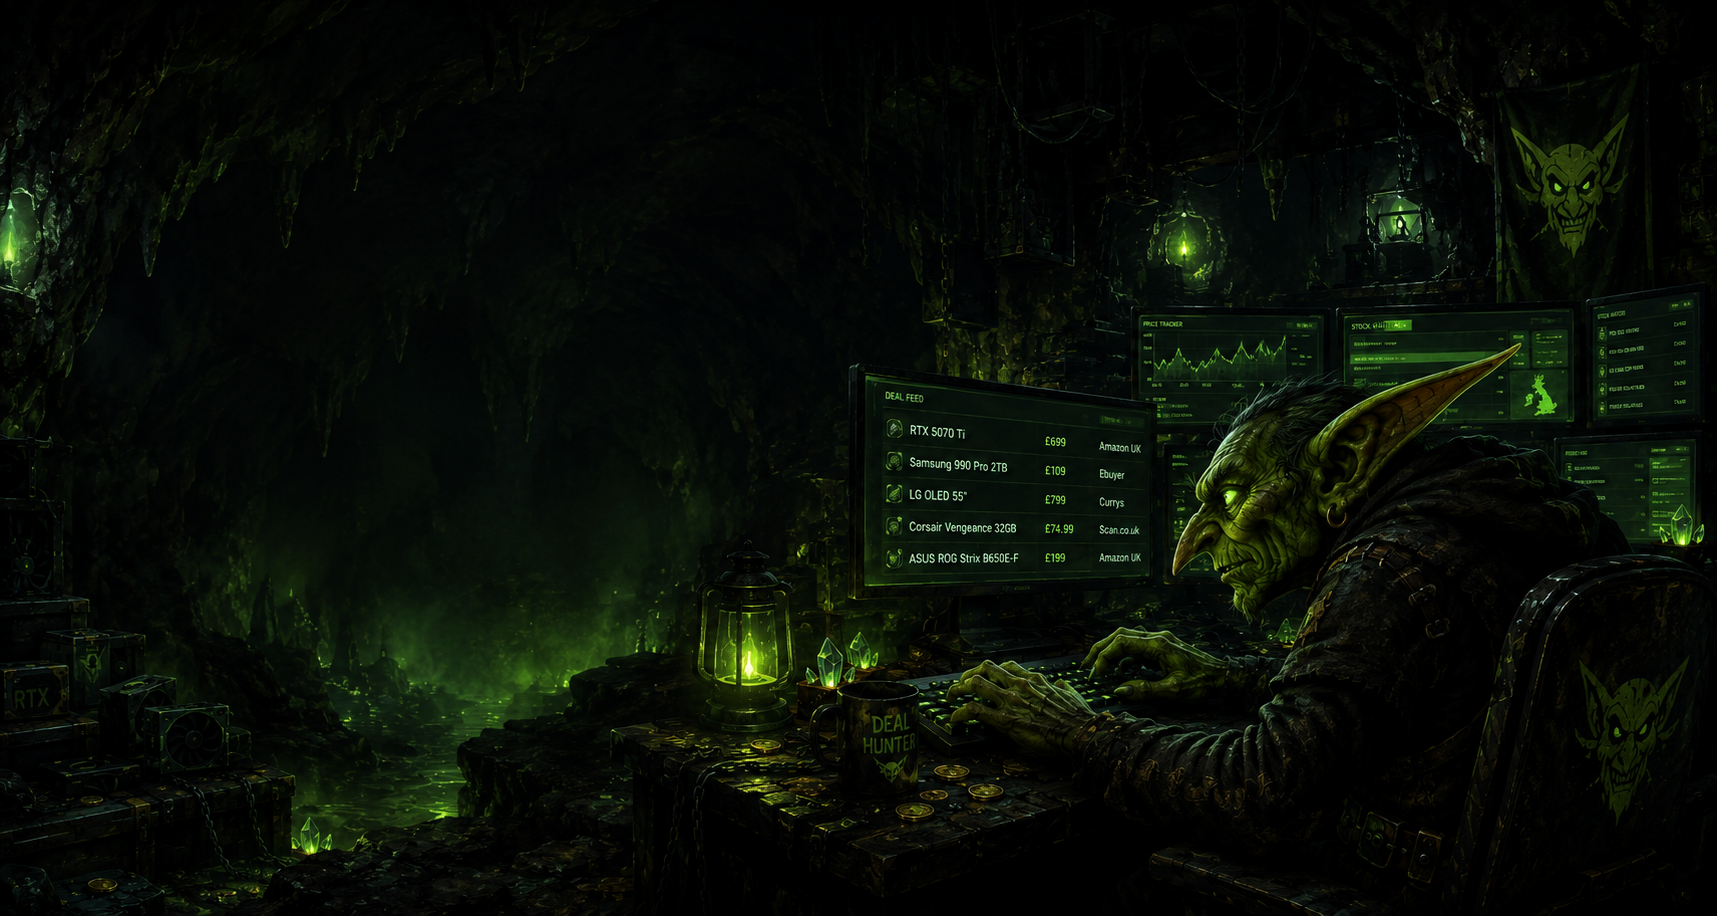
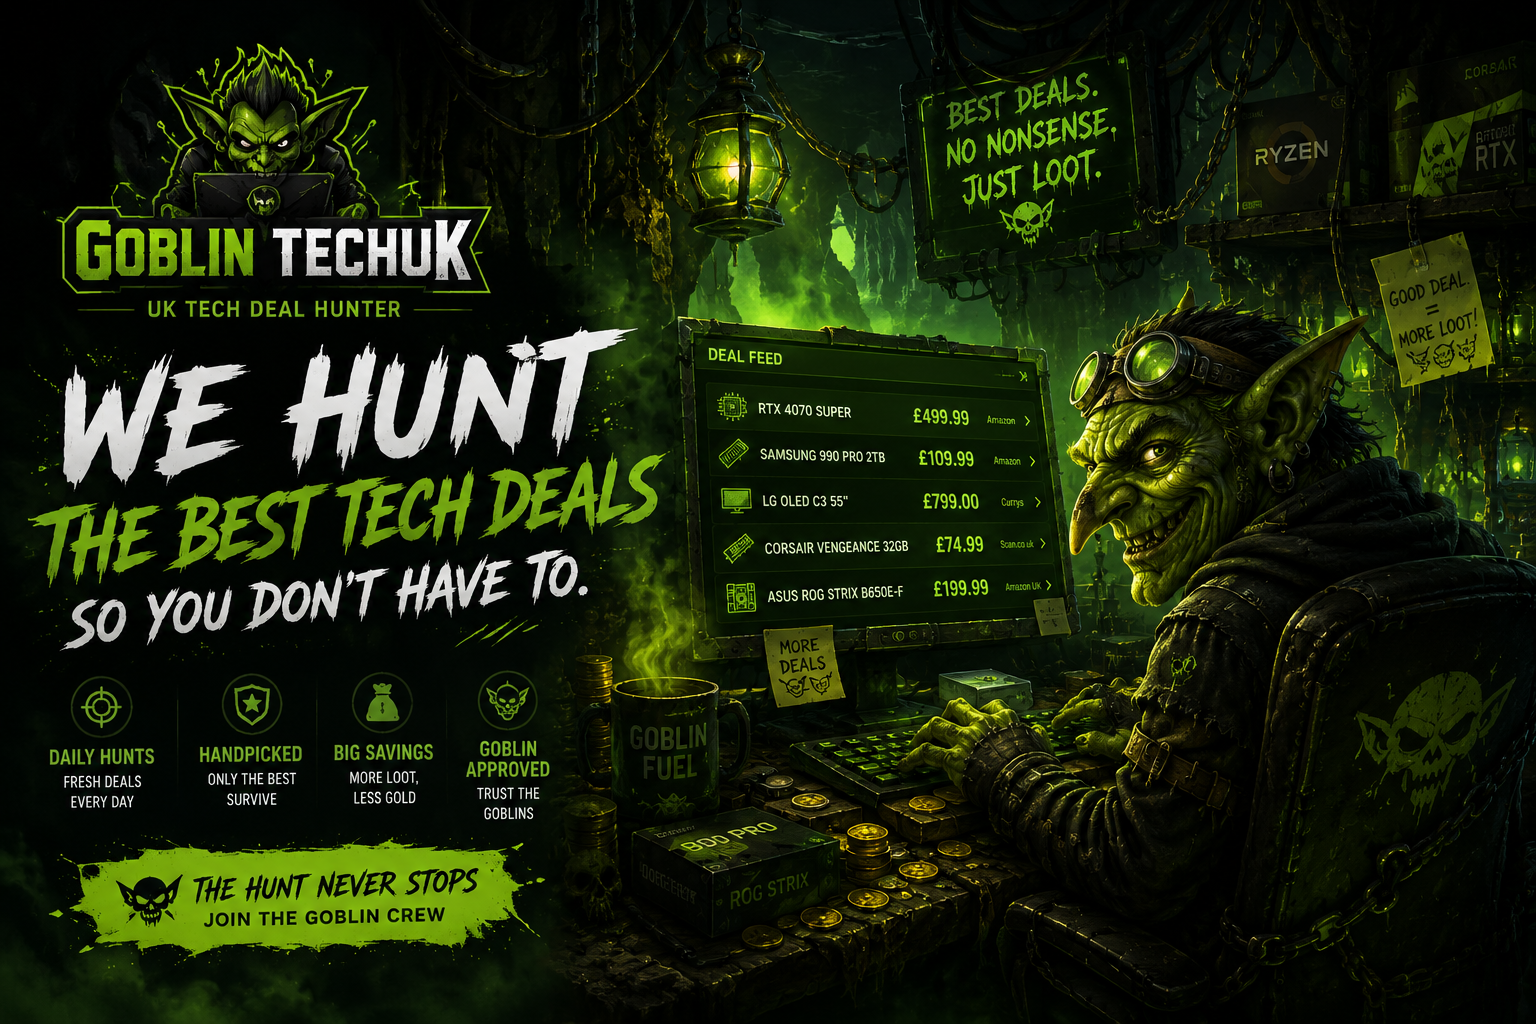
Update hero wallpaper presentation

diff --git a/app/page.tsx b/app/page.tsx
@@ -145,7 +145,10 @@ export default function Home() {
           }
 
           .hero-section {
-            padding: 54px 16px !important;
+            min-height: 58vh !important;
+            padding: 28px 16px !important;
+            background-size: cover !important;
+            background-position: center top !important;
           }
 
           .hero-title {
@@ -253,30 +256,18 @@ export default function Home() {
       <section
         className="hero-section"
         style={{
-          padding: "90px 40px",
+          minHeight: "clamp(560px, 62vw, 860px)",
+          padding: "40px",
           backgroundImage:
-            "linear-gradient(90deg, rgba(15,17,21,0.95), rgba(15,17,21,0.55)), url('/goblin-wallpaper.png')",
-          backgroundSize: "cover",
-          backgroundPosition: "center",
+            "linear-gradient(90deg, rgba(15,17,21,0.32), rgba(15,17,21,0.08)), url('/goblin-wallpaper.png')",
+          backgroundSize: "100% auto",
+          backgroundPosition: "center top",
+          backgroundRepeat: "no-repeat",
+          backgroundColor: "#0f1115",
         }}
       >
         <p style={{ color: "#8cff4f", fontWeight: "bold" }}>
           UK TECH DEAL HUNTER
-        </p>
-
-        <h1 className="hero-title" style={{ fontSize: "4rem", margin: "10px 0" }}>
-          Deals found by goblins.
-          <br />
-          Sorted so you don&apos;t have to.
-        </h1>
-
-        <p
-          className="hero-copy"
-          style={{ color: "#aaa", fontSize: "1.2rem", maxWidth: "650px" }}
-        >
-          We hunt the best tech deals across the UK. GPUs, gaming, electronics
-          and gadgets. No endless scrolling. No nonsense. Just the best deals,
-          handpicked by our goblins.
         </p>
       </section>
 